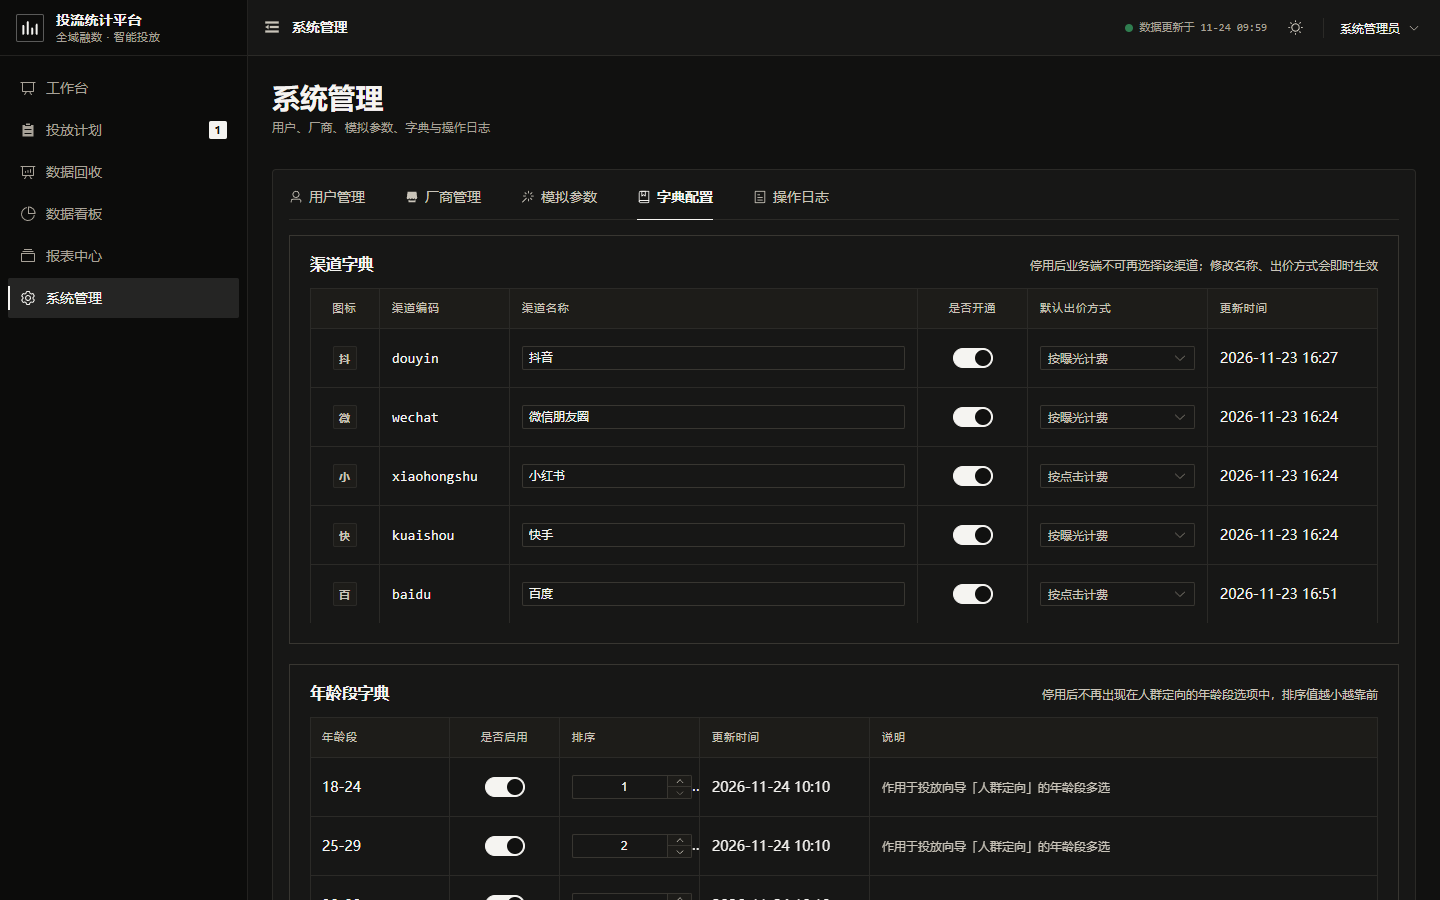
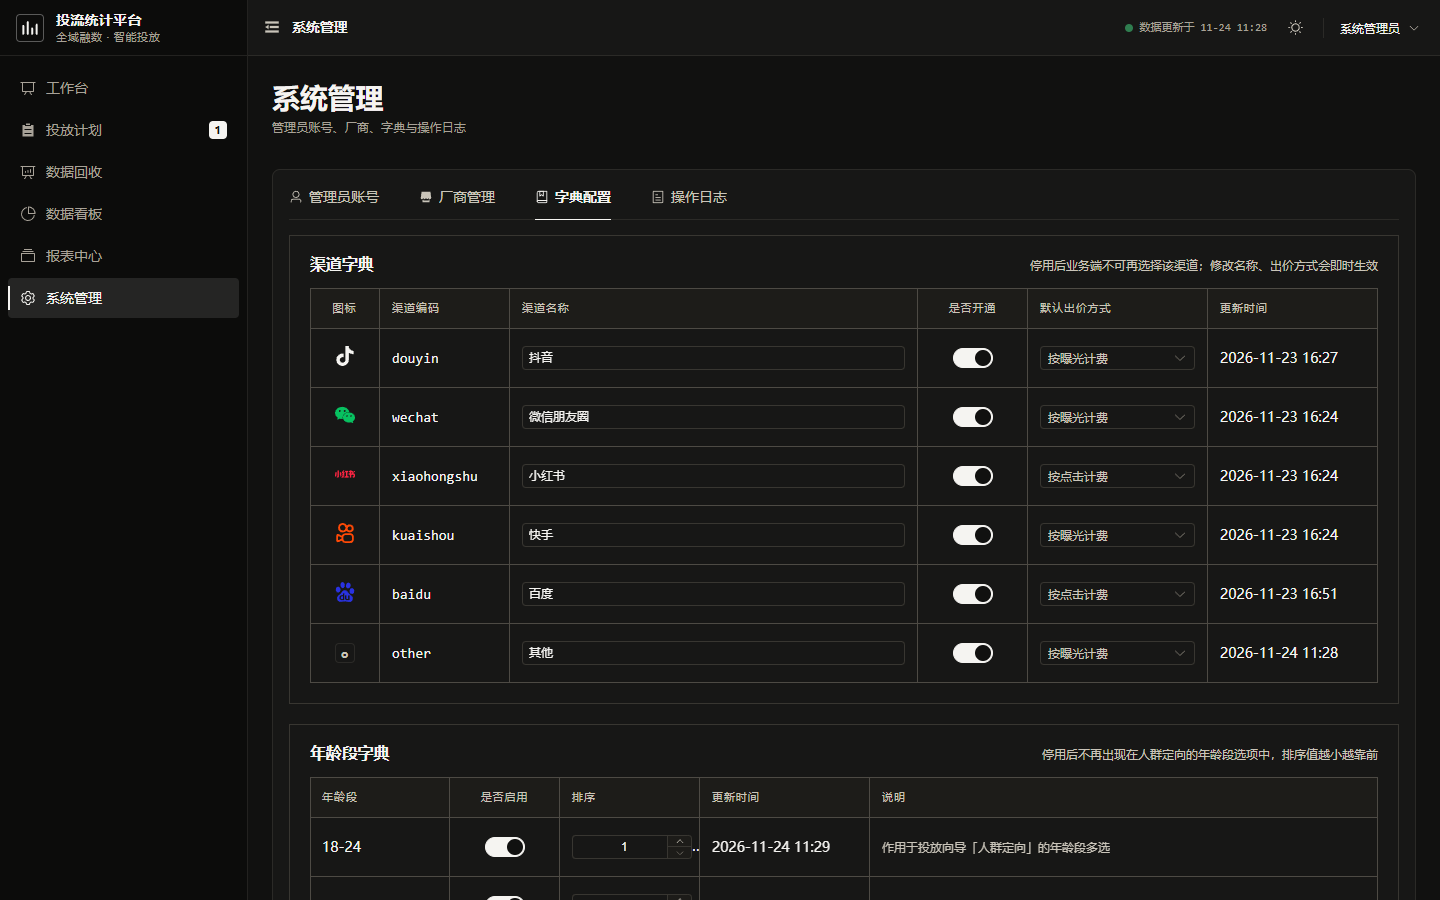
完善图标

diff --git a/src/components/ChannelIcon.vue b/src/components/ChannelIcon.vue
@@ -1,0 +1,79 @@
+<template>
+  <span
+    class="channel-icon"
+    :style="{ width: `${size}px`, height: `${size}px` }"
+    :title="label"
+  >
+    <svg v-if="iconPath" viewBox="0 0 24 24" role="img" :aria-label="label">
+      <path :d="iconPath" :fill="fill" />
+    </svg>
+    <span v-else class="channel-fallback">{{ fallback }}</span>
+  </span>
+</template>
+
+<script setup lang="ts">
+import { computed } from 'vue'
+import type { ChannelCode } from '@/types'
+import { CHANNEL_META } from '@/constants'
+
+const props = withDefaults(defineProps<{ channel: ChannelCode | string; size?: number }>(), {
+  size: 18,
+})
+
+const ICONS: Record<string, string> = {
+  "douyin": "M12.525.02c1.31-.02 2.61-.01 3.91-.02.08 1.53.63 3.09 1.75 4.17 1.12 1.11 2.7 1.62 4.24 1.79v4.03c-1.44-.05-2.89-.35-4.2-.97-.57-.26-1.1-.59-1.62-.93-.01 2.92.01 5.84-.02 8.75-.08 1.4-.54 2.79-1.35 3.94-1.31 1.92-3.58 3.17-5.91 3.21-1.43.08-2.86-.31-4.08-1.03-2.02-1.19-3.44-3.37-3.65-5.71-.02-.5-.03-1-.01-1.49.18-1.9 1.12-3.72 2.58-4.96 1.66-1.44 3.98-2.13 6.15-1.72.02 1.48-.04 2.96-.04 4.44-.99-.32-2.15-.23-3.02.37-.63.41-1.11 1.04-1.36 1.75-.21.51-.15 1.07-.14 1.61.24 1.64 1.82 3.02 3.5 2.87 1.12-.01 2.19-.66 2.77-1.61.19-.33.4-.67.41-1.06.1-1.79.06-3.57.07-5.36.01-4.03-.01-8.05.02-12.07z",
+  "wechat": "M8.691 2.188C3.891 2.188 0 5.476 0 9.53c0 2.212 1.17 4.203 3.002 5.55a.59.59 0 0 1 .213.665l-.39 1.48c-.019.07-.048.141-.048.213 0 .163.13.295.29.295a.326.326 0 0 0 .167-.054l1.903-1.114a.864.864 0 0 1 .717-.098 10.16 10.16 0 0 0 2.837.403c.276 0 .543-.027.811-.05-.857-2.578.157-4.972 1.932-6.446 1.703-1.415 3.882-1.98 5.853-1.838-.576-3.583-4.196-6.348-8.596-6.348zM5.785 5.991c.642 0 1.162.529 1.162 1.18a1.17 1.17 0 0 1-1.162 1.178A1.17 1.17 0 0 1 4.623 7.17c0-.651.52-1.18 1.162-1.18zm5.813 0c.642 0 1.162.529 1.162 1.18a1.17 1.17 0 0 1-1.162 1.178 1.17 1.17 0 0 1-1.162-1.178c0-.651.52-1.18 1.162-1.18zm5.34 2.867c-1.797-.052-3.746.512-5.28 1.786-1.72 1.428-2.687 3.72-1.78 6.22.942 2.453 3.666 4.229 6.884 4.229.826 0 1.622-.12 2.361-.336a.722.722 0 0 1 .598.082l1.584.926a.272.272 0 0 0 .14.047c.134 0 .24-.111.24-.247 0-.06-.023-.12-.038-.177l-.327-1.233a.582.582 0 0 1-.023-.156.49.49 0 0 1 .201-.398C23.024 18.48 24 16.82 24 14.98c0-3.21-2.931-5.837-6.656-6.088V8.89c-.135-.01-.27-.027-.407-.03zm-2.53 3.274c.535 0 .969.44.969.982a.976.976 0 0 1-.969.983.976.976 0 0 1-.969-.983c0-.542.434-.982.97-.982zm4.844 0c.535 0 .969.44.969.982a.976.976 0 0 1-.969.983.976.976 0 0 1-.969-.983c0-.542.434-.982.969-.982z",
+  "xiaohongshu": "M22.405 9.879c.002.016.01.02.07.019h.725a.797.797 0 0 0 .78-.972.794.794 0 0 0-.884-.618.795.795 0 0 0-.692.794c0 .101-.002.666.001.777zm-11.509 4.808c-.203.001-1.353.004-1.685.003a2.528 2.528 0 0 1-.766-.126.025.025 0 0 0-.03.014L7.7 16.127a.025.025 0 0 0 .01.032c.111.06.336.124.495.124.66.01 1.32.002 1.981 0 .01 0 .02-.006.023-.015l.712-1.545a.025.025 0 0 0-.024-.036zM.477 9.91c-.071 0-.076.002-.076.01a.834.834 0 0 0-.01.08c-.027.397-.038.495-.234 3.06-.012.24-.034.389-.135.607-.026.057-.033.042.003.112.046.092.681 1.523.787 1.74.008.015.011.02.017.02.008 0 .033-.026.047-.044.147-.187.268-.391.371-.606.306-.635.44-1.325.486-1.706.014-.11.021-.22.03-.33l.204-2.616.022-.293c.003-.029 0-.033-.03-.034zm7.203 3.757a1.427 1.427 0 0 1-.135-.607c-.004-.084-.031-.39-.235-3.06a.443.443 0 0 0-.01-.082c-.004-.011-.052-.008-.076-.008h-1.48c-.03.001-.034.005-.03.034l.021.293c.076.982.153 1.964.233 2.946.05.4.186 1.085.487 1.706.103.215.223.419.37.606.015.018.037.051.048.049.02-.003.742-1.642.804-1.765.036-.07.03-.055.003-.112zm3.861-.913h-.872a.126.126 0 0 1-.116-.178l1.178-2.625a.025.025 0 0 0-.023-.035l-1.318-.003a.148.148 0 0 1-.135-.21l.876-1.954a.025.025 0 0 0-.023-.035h-1.56c-.01 0-.02.006-.024.015l-.926 2.068c-.085.169-.314.634-.399.938a.534.534 0 0 0-.02.191.46.46 0 0 0 .23.378.981.981 0 0 0 .46.119h.59c.041 0-.688 1.482-.834 1.972a.53.53 0 0 0-.023.172.465.465 0 0 0 .23.398c.15.092.342.12.475.12l1.66-.001c.01 0 .02-.006.023-.015l.575-1.28a.025.025 0 0 0-.024-.035zm-6.93-4.937H3.1a.032.032 0 0 0-.034.033c0 1.048-.01 2.795-.01 6.829 0 .288-.269.262-.28.262h-.74c-.04.001-.044.004-.04.047.001.037.465 1.064.555 1.263.01.02.03.033.051.033.157.003.767.009.938-.014.153-.02.3-.06.438-.132.3-.156.49-.419.595-.765.052-.172.075-.353.075-.533.002-2.33 0-4.66-.007-6.991a.032.032 0 0 0-.032-.032zm11.784 6.896c0-.014-.01-.021-.024-.022h-1.465c-.048-.001-.049-.002-.05-.049v-4.66c0-.072-.005-.07.07-.07h.863c.08 0 .075.004.075-.074V8.393c0-.082.006-.076-.08-.076h-3.5c-.064 0-.075-.006-.075.073v1.445c0 .083-.006.077.08.077h.854c.075 0 .07-.004.07.07v4.624c0 .095.008.084-.085.084-.37 0-1.11-.002-1.304 0-.048.001-.06.03-.06.03l-.697 1.519s-.014.025-.008.036c.006.01.013.008.058.008 1.748.003 3.495.002 5.243.002.03-.001.034-.006.035-.033v-1.539zm4.177-3.43c0 .013-.007.023-.02.024-.346.006-.692.004-1.037.004-.014-.002-.022-.01-.022-.024-.005-.434-.007-.869-.01-1.303 0-.072-.006-.071.07-.07l.733-.003c.041 0 .081.002.12.015.093.025.16.107.165.204.006.431.002 1.153.001 1.153zm2.67.244a1.953 1.953 0 0 0-.883-.222h-.18c-.04-.001-.04-.003-.042-.04V10.21c0-.132-.007-.263-.025-.394a1.823 1.823 0 0 0-.153-.53 1.533 1.533 0 0 0-.677-.71 2.167 2.167 0 0 0-1-.258c-.153-.003-.567 0-.72 0-.07 0-.068.004-.068-.065V7.76c0-.031-.01-.041-.046-.039H17.93s-.016 0-.023.007c-.006.006-.008.012-.008.023v.546c-.008.036-.057.015-.082.022h-.95c-.022.002-.028.008-.03.032v1.481c0 .09-.004.082.082.082h.913c.082 0 .072.128.072.128V11.19s.003.117-.06.117h-1.482c-.068 0-.06.082-.06.082v1.445s-.01.068.064.068h1.457c.082 0 .076-.006.076.079v3.225c0 .088-.007.081.082.081h1.43c.09 0 .082.007.082-.08v-3.27c0-.029.006-.035.033-.035l2.323-.003c.098 0 .191.02.28.061a.46.46 0 0 1 .274.407c.008.395.003.79.003 1.185 0 .259-.107.367-.33.367h-1.218c-.023.002-.029.008-.028.033.184.437.374.871.57 1.303a.045.045 0 0 0 .04.026c.17.005.34.002.51.003.15-.002.517.004.666-.01a2.03 2.03 0 0 0 .408-.075c.59-.18.975-.698.976-1.313v-1.981c0-.128-.01-.254-.034-.38 0 .078-.029-.641-.724-.998z",
+  "kuaishou": "M18.315 12.264c2.33 0 4.218 1.88 4.218 4.2V19.8c0 2.32-1.888 4.2-4.218 4.2h-6.202a4.218 4.218 0 0 1-4.023-2.938l-3.676 1.833a2.04 2.04 0 0 1-2.731-.903 2.015 2.015 0 0 1-.216-.907v-5.94a2.03 2.03 0 0 1 2.035-2.024 2.044 2.044 0 0 1 .919.218l3.673 1.85a4.218 4.218 0 0 1 4.02-2.925zm-.062 2.162h-6.078c-1.153 0-2.09.921-2.108 2.065v3.247c0 1.148.925 2.081 2.073 2.1h6.113c1.153 0 2.09-.922 2.109-2.065v-3.247a2.104 2.104 0 0 0-2.074-2.1zM4.18 15.72a.554.554 0 0 0-.555.542v3.734a.556.556 0 0 0 .798.496l.01-.004 3.463-1.756V17.51l-3.467-1.73a.557.557 0 0 0-.249-.06zM9.28 0a5.667 5.667 0 0 1 4.98 2.965 4.921 4.921 0 0 1 3.36-1.317c2.714 0 4.913 2.177 4.913 4.863 0 2.686-2.2 4.863-4.912 4.863a4.921 4.921 0 0 1-3.996-2.034 5.651 5.651 0 0 1-4.345 2.034c-3.131 0-5.67-2.546-5.67-5.687C3.61 2.546 6.149 0 9.28 0Zm8.34 3.926c-1.441 0-2.61 1.157-2.61 2.585s1.169 2.585 2.61 2.585c1.443 0 2.612-1.157 2.612-2.585s-1.169-2.585-2.611-2.585zM9.28 2.287a3.395 3.395 0 0 0-3.39 3.4c0 1.877 1.518 3.4 3.39 3.4a3.395 3.395 0 0 0 3.39-3.4c0-1.878-1.518-3.4-3.39-3.4z",
+  "baidu": "M9.154 0C7.71 0 6.54 1.658 6.54 3.707c0 2.051 1.171 3.71 2.615 3.71 1.446 0 2.614-1.659 2.614-3.71C11.768 1.658 10.6 0 9.154 0zm7.025.594C14.86.58 13.347 2.589 13.2 3.927c-.187 1.745.25 3.487 2.179 3.735 1.933.25 3.175-1.806 3.422-3.364.252-1.555-.995-3.364-2.362-3.674a1.218 1.218 0 0 0-.261-.03zM3.582 5.535a2.811 2.811 0 0 0-.156.008c-2.118.19-2.428 3.24-2.428 3.24-.287 1.41.686 4.425 3.297 3.864 2.617-.561 2.262-3.68 2.183-4.362-.125-1.018-1.292-2.773-2.896-2.75zm16.534 1.753c-2.308 0-2.617 2.119-2.617 3.616 0 1.43.121 3.425 2.988 3.362 2.867-.063 2.553-3.238 2.553-3.988 0-.745-.62-2.99-2.924-2.99zm-8.264 2.478c-1.424.014-2.708.925-3.323 1.947-1.118 1.868-2.863 3.05-3.112 3.363-.25.309-3.61 2.116-2.864 5.42.746 3.301 3.365 3.237 3.365 3.237s1.93.19 4.171-.31c2.24-.495 4.17.123 4.17.123s5.233 1.748 6.665-1.616c1.43-3.364-.808-5.109-.808-5.109s-2.99-2.306-4.736-4.798c-1.072-1.665-2.348-2.268-3.528-2.257zm-2.234 3.84l1.542.024v8.197H7.758c-1.47-.291-2.055-1.292-2.13-1.462-.072-.173-.488-.976-.268-2.343.635-2.049 2.447-2.196 2.447-2.196h1.81zm3.964 2.39v3.881c.096.413.612.488.612.488h1.614v-4.343h1.689v5.782h-3.915c-1.517-.39-1.59-1.465-1.59-1.465v-4.317zm-5.458 1.147c-.66.197-.978.708-1.05.928-.076.22-.247.78-.1 1.269.294 1.095 1.248 1.144 1.248 1.144h1.37v-3.34z"
+}
+const COLORS: Record<string, string> = {
+  "douyin": "currentColor",
+  "wechat": "#07C160",
+  "xiaohongshu": "#FF2442",
+  "kuaishou": "#FF4906",
+  "baidu": "#2932E1"
+}
+
+const meta = computed(() => {
+  if (props.channel === 'other') return { label: '其他', short: '其' }
+  return (
+    CHANNEL_META[props.channel as ChannelCode] ?? {
+      label: String(props.channel),
+      short: String(props.channel).slice(0, 1),
+    }
+  )
+})
+const label = computed(() => meta.value.label)
+const iconPath = computed(() => ICONS[props.channel] ?? '')
+const fill = computed(() => COLORS[props.channel] ?? 'currentColor')
+const fallback = computed(() => meta.value.short ?? label.value.slice(0, 1))
+</script>
+
+<style scoped>
+.channel-icon {
+  display: inline-flex;
+  align-items: center;
+  justify-content: center;
+  flex: none;
+  color: var(--color-text);
+}
+.channel-icon svg {
+  display: block;
+  width: 100%;
+  height: 100%;
+}
+.channel-fallback {
+  display: inline-flex;
+  align-items: center;
+  justify-content: center;
+  width: 100%;
+  height: 100%;
+  border: var(--hairline);
+  border-radius: var(--radius-xs);
+  color: var(--color-text-secondary);
+  font-size: var(--font-size-micro);
+  font-weight: 600;
+  line-height: 1;
+}
+</style>

diff --git a/src/views/admin/tabs/VendorsTab.vue b/src/views/admin/tabs/VendorsTab.vue
@@ -13,11 +13,12 @@ import {
 } from '@/admin/system';
 import type { VendorPayload } from '@/admin/system';
 import { PLATFORM_OPTIONS } from '@/admin/constants';
-import { PLATFORM_LABELS, PLATFORM_TAG_TYPES } from '@/admin/domain';
+import { PLATFORM_LABELS } from '@/admin/domain';
 import { formatDateTime, maskPhone } from '@/admin/format';
 import { errorMessage } from '@/admin/error';
 import { isPhone, isVendorCode } from '@/admin/validate';
 import EmptyState from '@/admin/components/EmptyState.vue';
+import ChannelIcon from '@/components/ChannelIcon.vue';
 
 const props = withDefaults(defineProps<{ refreshToken?: number }>(), { refreshToken: 0 });
 
@@ -260,7 +261,12 @@ onMounted(() => {
             :key="item.value"
             :label="item.label"
             :value="item.value"
-          />
+          >
+            <span class="platform-option">
+              <ChannelIcon :channel="item.value" :size="16" />
+              <span>{{ item.label }}</span>
+            </span>
+          </el-option>
         </el-select>
         <el-select v-model="query.status" class="filter-select" placeholder="全部状态" clearable>
           <el-option label="启用" :value="1" />
@@ -273,21 +279,22 @@ onMounted(() => {
     </div>
 
     <el-table v-loading="loading" :data="rows" row-key="id" border stripe>
-      <el-table-column label="厂商编码" min-width="140">
+      <el-table-column label="厂商编码" min-width="120">
         <template #default="{ row }">
           <span class="mono">{{ row.code }}</span>
         </template>
       </el-table-column>
-      <el-table-column prop="name" label="厂商名称" min-width="200" show-overflow-tooltip />
+      <el-table-column prop="name" label="厂商名称" min-width="160" show-overflow-tooltip />
       <el-table-column label="所属平台" width="120">
         <template #default="{ row }">
-          <el-tag :type="PLATFORM_TAG_TYPES[row.platform as PlatformCode]" size="small" effect="light">
-            {{ PLATFORM_LABELS[row.platform as PlatformCode] }}
-          </el-tag>
+          <span class="platform-cell">
+            <ChannelIcon :channel="row.platform as PlatformCode" :size="17" />
+            <span>{{ PLATFORM_LABELS[row.platform as PlatformCode] }}</span>
+          </span>
         </template>
       </el-table-column>
-      <el-table-column prop="contact" label="联系人" width="120" />
-      <el-table-column label="联系电话" width="170">
+      <el-table-column prop="contact" label="联系人" width="100" />
+      <el-table-column label="联系电话" width="150">
         <template #default="{ row }">
           <span class="mono">{{ revealed[row.id] ? row.phone : maskPhone(row.phone) }}</span>
           <el-button
@@ -299,12 +306,12 @@ onMounted(() => {
           />
         </template>
       </el-table-column>
-      <el-table-column label="关联计划" width="110" align="center">
+      <el-table-column label="关联计划" width="90" align="center">
         <template #default="{ row }">
           <span :class="row.planCount > 0 ? 'plan-count is-used' : 'plan-count'">{{ row.planCount }}</span>
         </template>
       </el-table-column>
-      <el-table-column label="状态" width="110">
+      <el-table-column label="状态" width="100">
         <template #default="{ row }">
           <el-switch
             :model-value="row.status"
@@ -317,10 +324,10 @@ onMounted(() => {
           />
         </template>
       </el-table-column>
-      <el-table-column label="更新时间" width="160">
+      <el-table-column label="更新时间" width="150">
         <template #default="{ row }">{{ formatDateTime(row.updatedAt) }}</template>
       </el-table-column>
-      <el-table-column label="操作" width="130" fixed="right">
+      <el-table-column label="操作" width="120" fixed="right">
         <template #default="{ row }">
           <el-button link type="primary" @click="openEdit(row)">编辑</el-button>
           <el-tooltip
@@ -372,7 +379,12 @@ onMounted(() => {
               :key="item.value"
               :label="item.label"
               :value="item.value"
-            />
+            >
+              <span class="platform-option">
+                <ChannelIcon :channel="item.value" :size="16" />
+                <span>{{ item.label }}</span>
+              </span>
+            </el-option>
           </el-select>
         </el-form-item>
         <el-form-item label="联系人" prop="contact">
@@ -440,6 +452,16 @@ onMounted(() => {
 }
 
 .form-select {
+  width: 100%;
+}
+.platform-cell,
+.platform-option {
+  display: inline-flex;
+  align-items: center;
+  gap: 7px;
+}
+.platform-option {
+  display: flex;
   width: 100%;
 }
 </style>

diff --git a/src/views/campaign/create.vue b/src/views/campaign/create.vue
@@ -78,12 +78,7 @@
                     :class="{ selected: form.channels.includes(channel.code) }"
                     @click="toggleChannel(channel.code)"
                   >
-                    <span
-                      class="channel-icon"
-                      :style="{ background: channel.soft, color: channel.color }"
-                    >
-                      {{ channel.short }}
-                    </span>
+                    <ChannelIcon :channel="channel.code as ChannelCode" :size="20" />
                     <span class="channel-label">{{ channel.label }}</span>
                     <el-icon v-if="form.channels.includes(channel.code)" class="channel-check">
                       <Check />
@@ -434,6 +429,7 @@ import {
   Picture,
 } from '@element-plus/icons-vue'
 import PageHeader from '@/components/PageHeader.vue'
+import ChannelIcon from '@/components/ChannelIcon.vue'
 import { useAppStore } from '@/stores/app'
 import { useDictStore } from '@/stores/dict'
 import { createCampaign, getCampaign, updateCampaign } from '@/api/campaign'
@@ -987,17 +983,6 @@ onMounted(async () => {
   border-color: var(--color-primary);
   background: var(--color-primary-soft);
   
-}
-.channel-icon {
-  width: 26px;
-  height: 26px;
-  border-radius: var(--radius-md);
-  display: flex;
-  align-items: center;
-  justify-content: center;
-  font-size: 12px;
-  font-weight: 600;
-  flex: none;
 }
 .channel-label {
   font-size: 13px;

diff --git a/src/views/admin/tabs/DictTab.vue b/src/views/admin/tabs/DictTab.vue
@@ -7,6 +7,8 @@ import { BID_MODE_OPTIONS } from '@/admin/domain';
 import { IS_BACKEND_MODE } from '@/admin/config';
 import { formatDateTime } from '@/admin/format';
 import { errorMessage } from '@/admin/error';
+import ChannelIcon from '@/components/ChannelIcon.vue';
+import type { ChannelCode } from '@/types';
 
 const props = withDefaults(defineProps<{ refreshToken?: number }>(), { refreshToken: 0 });
 
@@ -183,7 +185,7 @@ onMounted(() => {
       <el-table :data="channels" border size="small">
         <el-table-column label="图标" width="70" align="center">
           <template #default="{ row }">
-            <span class="channel-icon">{{ row.icon }}</span>
+            <ChannelIcon :channel="row.code as ChannelCode" :size="20" />
           </template>
         </el-table-column>
         <el-table-column label="渠道编码" width="130">
@@ -365,20 +367,6 @@ onMounted(() => {
   color: var(--color-text);
 }
 
-.channel-icon {
-  display: inline-flex;
-  align-items: center;
-  justify-content: center;
-  width: 24px;
-  height: 24px;
-  border-radius: var(--radius-xs);
-  border: var(--hairline);
-  background: var(--ink-50);
-  color: var(--color-text-secondary);
-  font-size: var(--font-size-micro);
-  font-weight: 600;
-  line-height: 1;
-}
 
 .dict-note {
   font-size: 12px;

diff --git a/src/components/ChannelTag.vue b/src/components/ChannelTag.vue
@@ -1,6 +1,6 @@
 <template>
   <span class="channel-tag">
-    <span class="channel-icon">{{ meta.short }}</span>
+    <ChannelIcon :channel="channel" :size="18" />
     <span class="channel-name">{{ meta.label }}</span>
   </span>
 </template>
@@ -9,6 +9,7 @@
 import { computed } from 'vue'
 import type { ChannelCode } from '@/types'
 import { CHANNEL_META } from '@/constants'
+import ChannelIcon from '@/components/ChannelIcon.vue'
 
 const props = defineProps<{ channel: ChannelCode }>()
 const meta = computed(
@@ -26,20 +27,6 @@ const meta = computed(
   align-items: center;
   gap: 6px;
   white-space: nowrap;
-}
-.channel-icon {
-  width: 20px;
-  height: 20px;
-  border-radius: var(--radius-xs);
-  border: var(--hairline);
-  background: transparent;
-  color: var(--color-text-secondary);
-  display: inline-flex;
-  align-items: center;
-  justify-content: center;
-  font-size: var(--font-size-micro);
-  font-weight: 600;
-  flex: none;
 }
 .channel-name {
   font-size: var(--font-size-aux);

diff --git a/DESIGN.md b/DESIGN.md
@@ -121,6 +121,7 @@
 | Table | 表头 11px 大写宽字距、`--ink-50` 底、1px 下边框；行高 48；无斑马纹。计划表：单号并入计划名称、曝光量合并为「实际 / 计划」、排期单行、厂商显示数量+悬停名单、操作列独立发际线、全部列居中 |
 | Pagination | 方角页码，选中黑底白字（暗色反转） |
 | Tag / Badge | 全部单色发际线标签，圆角 4px；状态用 `StatusTag`（8px 语义点 + 中性文字） |
+| ChannelIcon | 渠道使用官方品牌 SVG 标志（抖音、微信、小红书、快手、百度），保留品牌色；未知渠道退回首字方块 |
 | Tooltip / Dropdown / Modal / Drawer / Toast | 1px 边框、8px 圆角、无阴影；遮罩 `rgba(17,17,16,.4)` |
 | Empty / Skeleton | 单色线稿；骨架为纯色脉冲（无渐变） |
 | Steps / Progress | 步骤用中性；进度条纯黑填充（暗色白） |
